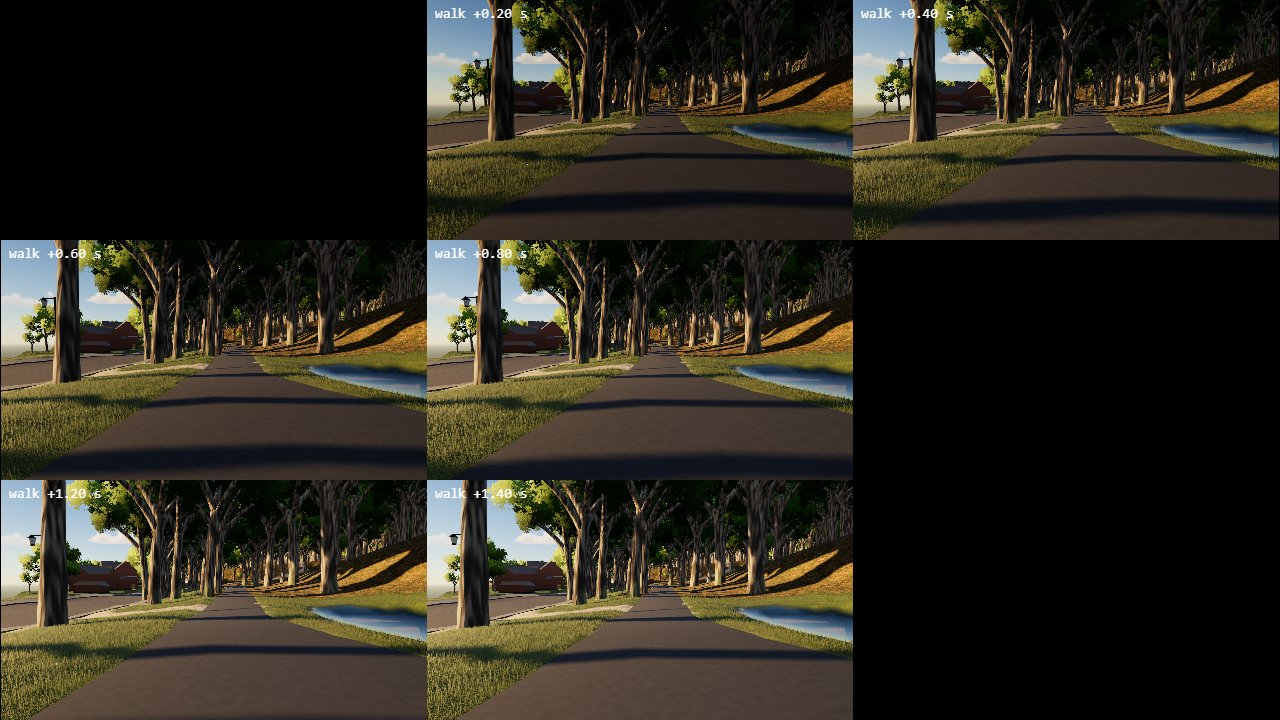
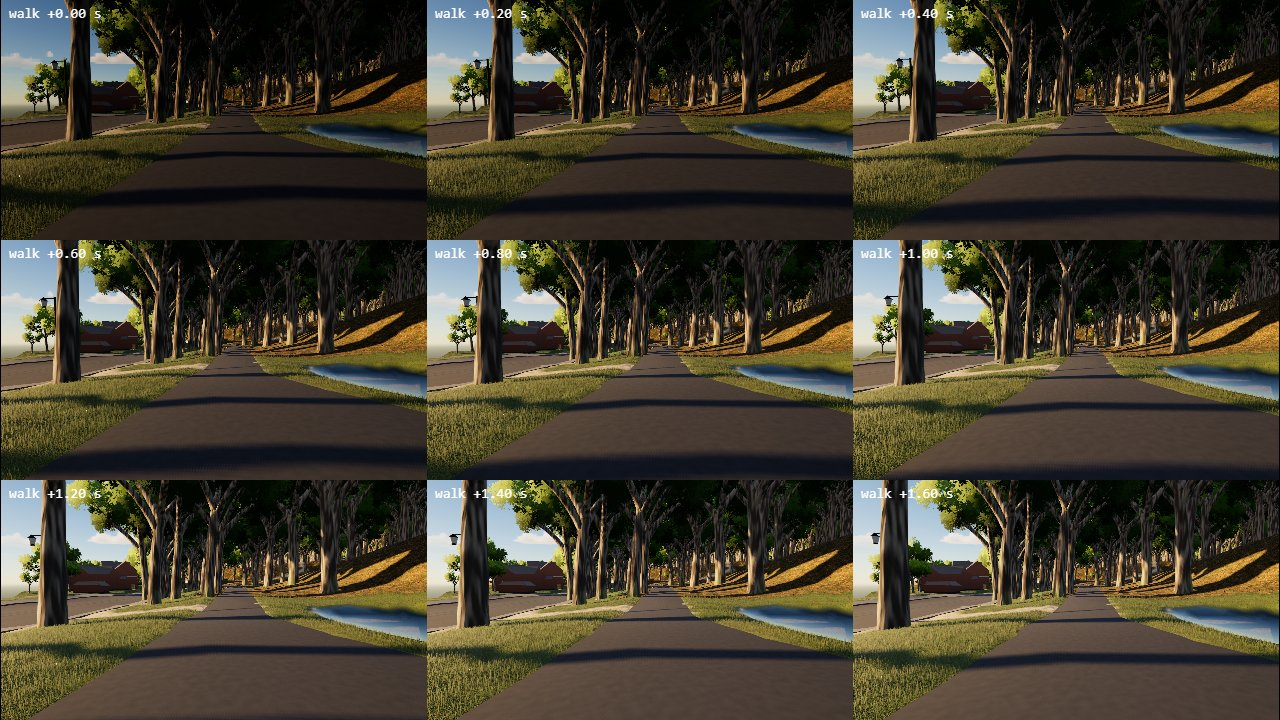
Grass: docs/GRASS.md, labs index card, strips

Changed region(s): [[0.6562, 0.3361, 1.0, 1.0], [0.0, 0.0, 0.3438, 0.3361], [0.1562, 0.0306, 0.1875, 0.0611]]

diff --git a/labs/index.html b/labs/index.html
@@ -26,6 +26,7 @@
   <p class="lead">One page per asset or system, to look at it on its own before it goes into the city. <a href="../viewer/index.html">Back to the city</a>.</p>
   <a class="card" href="bird-lab.html"><b>Bird Lab</b><span>The Saint-Job peregrine falcon: every clip, the flight blend, the procedural layers fly mode uses (dive, bank, feet, braking), lights and debug views.</span></a>
   <a class="card" href="falcon-lab.html"><b>Falcon Lab</b><span>The Saint-Job peregrine family at the real church: the eyrie behind the louvred arch (gravel tray, feathers, prey, droppings; tools/blender/falconNest.py), three downy eyases, the female and the tiercel with their behaviours (perches on the cross, gable and louvre ledges, thermals, stoops, the food pass, feeding), views from inside the belfry, the street and the sky, Wikimedia Commons reference photos side by side, CPU / GPU cost A/B. In the city by default (?falcons=0 = none); fly mode starts from the nest.</span></a>
+  <a class="card" href="grass-lab.html"><b>Grass Lab</b><span>Our own grass (viewer/grass/) on real Uccle tiles: front gardens (D8), the Wolvendael lawns (F4), a roadside verge from a car (Rue Zandbeek, C8). Types from OSM / UrbIS / LiDAR trees, clean edges from a top-down render of the drawn streets and buildings, compute culling + 3 indirect LODs, push field, seasons, day / golden / night; GPU A/B, frame strips, flicker test. In the city behind ?grass=1.</span></a>
   <a class="card" href="map-lab.html"><b>Map Lab</b><span>The minimap (round, heading-up, upright street names, current + next street from the road graph, tram 92, landmarks) and the full map (M: pan, wheel / pinch zoom, bilingual search, click to teleport) over a player walking, driving or flying along real Uccle streets, on a day / dusk / night sky; CPU per frame and worker cache rebuilds. Baked by tools/build_map.py; in the city behind ?map=1.</span></a>
   <a class="card" href="falcon-flight-lab.html"><b>Falcon Flight Lab</b><span>Fly as a peregrine over Saint-Job (lab only, next to today's fly mode): a semi-physical flight model (lift and drag, spread / half-folded / tucked wings, a forgiving stall, 80° banks, 7 g pull-outs, flapping from a stamina budget), stoops past 80 m/s, the wind with gusts, thermals over the Place and the parks (gulls circling, dust rising), updrafts off the façades, a real collision; pigeons (boids, vertex-shader wings) that burst off the roofs, the strike and catch window, carrying prey to the eyrie, landing with a flare on the church's cross and ledges; chase / head camera, FOV and streaks with speed, procedural wind and wing sound; keyboard, mouse aim, gamepad, touch; verification autopilots and traces.</span></a>
   <a class="card" href="lamp-lab.html"><b>Lamp Lab</b><span>The Brussels swan-neck lamp from Blender (tools/blender/brusselsLamp.py): its three LODs side by side with triangle counts, the LOD a lamp gets at any distance, day and night glow.</span></a>

diff --git a/docs/GRASS.md b/docs/GRASS.md
@@ -1,0 +1,205 @@
+# Our grass (`viewer/grass/`) and the Grass Lab
+
+Branch `claude/grass` (from claude/foundation 743c9f2), 2026-11-13. Lab: `labs/grass-lab.html` (`?scene=garden|park|verge`,
+`?time=golden|midday|night|...`, `?preset=low|medium|high|ultra`, `?day=1..365`, `?grass=0`, `?cam=x,y,z,tx,ty,tz`).
+In the city: **`?grass=1` (default OFF**, the owner decides), `?grasspreset=`.
+
+## 1. What it is
+
+Grass blades grow on the city's real lawns, parks, verges and meadows near the camera and sink into the textured
+ground (docs/materials/GROUND.md) with distance. Each frame a single compute pass picks the blades. They are drawn
+in 3 indirect draws. The CPU only writes a few uniforms (0.1-0.2 ms a frame, measured in the lab).
+
+| File | What |
+|---|---|
+| `viewer/grass/grassTypes.js` | per tile, a 1 m raster of grass TYPES from real data (density, length, dryness, flowers) |
+| `viewer/grass/grassField.js` | the FIELD: a top-down render around the camera of the city's own terrain, street meshes and buildings (height + type + "may grass grow here") |
+| `viewer/grass/grass.js` | the system: compute (culling, thinning, LOD, per-blade shape / wind / push / colour), 3 LOD meshes, material, presets, seasons |
+| `viewer/grass/grassPush.js` | the PUSH FIELD (car wheels, walker, falcon landing lay the grass down; it stands back up) |
+| `viewer/grass/cityGrass.js` | the city hook (`?grass=1`) |
+| `tools/grass/build_osm_grass.mjs` -> `data/grass/osm_grass.json` | OSM kinds the tile features fold away: 78 meadows, grassland, heath, 13 village greens, pitch surface + sport |
+| `labs/grass-lab.html/.js` | the lab: real tiles (D8, F4, C8) with the city's terrain, textured ground, measured streets, UrbIS buildings, trees, lamps, light, post chain |
+
+## 2. What came from where
+
+- **alezen9/revo-realms (MIT), read only, no code copied:** the engine room: a compute pass per frame with GPU frustum
+  culling, LOD by distance into indirect draws (Revo: 6/4/2 segments, ours: 5/3/1), stochastic thinning with
+  distance, clumps, camera-following zone. Revo puts all LODs in one list with `firstInstance` offsets, which needs
+  the WebGPU feature "indirect-first-instance". **Ours does not need it:** one data buffer with a region per LOD and
+  one draw-argument buffer with a byte offset per LOD (`geometry.setIndirect(args, offset)`). That is 3 storage
+  buffers in the compute stage; WebGPU's default limit is 8, and a first try with 16 was refused.
+- **game-engine-v1 Hybrid grass (`hybridGrassSystem.js`), read only, nothing copied into vendor/:**
+  - per-blade work done ONCE in compute (height, facing, clump, wind, push), not per vertex;
+  - Voronoi clumps over 3x3 cells: facing, lean, height and shade per clump;
+  - the view-thicken turn for edge-on blades;
+  - lighting normals that are mostly "up", so the field reads like the ground it fades into;
+  - the far colour converging to the ground's colour;
+  - root AO and hue / saturation / dry variation.
+
+  From the Revo port (`revoGrassSystem.js`): a painted density used as a probability, and the push-field idea.
+- **Our earlier Foliage Lab grass (`viewer/foliage/grass.js`, still used by the foliage lab):**
+  - the stateless world grid: the same cell always gives the same blade, deterministic, no swimming;
+  - grow / sink with distance;
+  - a pixel floor on blade width;
+  - the shared wind field (`viewer/foliage/wind.js`, imported).
+- **Ours (new):**
+  - **Thinning by level.** Candidates sit in 4.5 cm cells. A cell's level is how many times both of its indices
+    divide by 2 (capped at 3). A level-k blade jitters inside its 2^k block and gets a rank in [4^-(k+1), 4^-k).
+    It is kept while the density p(d) = min(1, (d0/d)^2) is above its rank.
+    - As p falls, the finest level goes first, so the blades that stay are always evenly spread (a jittered quadtree:
+      no clumps or holes from random thinning).
+    - The count per pixel stays about constant.
+    - Each level has its own dispatch, over the box of cells its distances can reach.
+    - Blades grow out of the ground (`smoothstep(0, .35, 1 - r/p)`) and widen 1/sqrt(p) (capped 2.6x).
+  - **Dispatch box from the view sector.** The CPU limits each level's dispatch to the axis-aligned box around the
+    camera's horizontal view sector (plus 3 m around the camera; the full square when looking down): about 4x
+    fewer threads.
+  - **A rank pre-test before any memory read**, against the most generous type (a meadow's d0).
+  - **The FIELD (the top-down render of the real drawn geometry):** see §4.
+  - The Uccle TYPES from data: see §3.
+  - **Blades lit through toward the sun.** The face normal turns toward the sun, not the camera, so a backlit lawn
+    glows instead of reading as black stubble (`garden_D8_golden_backlit_on.jpeg`).
+  - A dithered LOD hand-over (each blade's LOD distance x 0.85-1.15).
+  - The blade colour taken from the textured ground's own mean colours (lawn / rough / dry scans, ground.json) and
+    its noise taps. Up close the blades vary around that colour; far away they converge to it, so the last blades
+    sinking into the ground change the picture little.
+
+## 3. Types (data first)
+
+`grassTypes.js` paints, per tile (500 x 500 px at 1 m), density / length / dry / flowers:
+
+| Where (data) | Type | Blade height |
+|---|---|---|
+| default: private gardens, unmapped green | mown lawn (length 0.06) | 5-8 cm |
+| OSM `garden`; pitch with surface=grass, or no surface and soccer / football / rugby | mown (0.04 / 0) | 5-7 cm |
+| OSM `park`, `village_green` (Wolvendael) | park grass (0.28-0.3), clumpy | 10-16 cm |
+| OSM `landuse=grass` (public greens, roundabouts, embankments) | 0.42, a little dry | 16-22 cm |
+| terrain within 1.7 m of a measured carriageway / parking (UrbIS surfaces.json), not across a sidewalk | **roadside verge** (0.62), dry 0.55 | 25-35 cm |
+| traffic islands / medians (the road mesh's "grass" part) | mown verge (0.22) | ~10 cm |
+| OSM meadow (`landuse=meadow`, 78 in Uccle), `natural=grassland` / `heath`, orchard | **meadow with wildflowers** (0.75-1) | 35-55 cm |
+| OSM `scrub`, the soft edge of a wood (land-cover mask R) | long rough (0.8) | ~40 cm |
+| under LiDAR / OSM tree crowns (crown radius) | density x 0.45, fewer flowers | |
+| pitch: tennis clay, hockey turf, asphalt, sand ...; playground sand, paths, water, steep banks, inside woods | **no grass** | |
+
+On top of that, the bake reads the textured ground's own noise (ground.js `noiseTex`, same taps and formulas):
+- its "rough" patches make the grass longer;
+- its "dry" patches thin it out and dry it;
+- its worn spots leave bare soil.
+
+So the blades follow the scans under them.
+Flowers: 5 % of a meadow's blades carry a head (buttercup yellow, oxeye white, clover pink, knapweed purple).
+
+## 4. Clean edges, exact heights: the FIELD
+
+`grassField.js` renders, top-down and orthographic, a 128 m window around the camera into a 1024² RGBA32F target
+(12.5 cm texels, 16 MB). It uses proxy meshes that share the city's own geometry buffers:
+1. **Grass surfaces, depth tested:** each tile's terrain mesh and the street's grass islands. Output R = the drawn
+   surface's height, G = pack(density, flowers), B = pack(length, dry), A = 1.
+2. **Solids, with no depth test:** every other road part (carriageway, sidewalks, kerbs, squares, tree pits),
+   every building, and a disc per tree trunk. Output A = 0.
+
+So grass never grows on a road, sidewalk, square, path or water, nor inside a building or a trunk. It stops at the
+real outline of the kerb and the wall (`garden_D8_midday_on.jpeg`: lawn to the wall foot; the verge strip: lawn to
+the paving edge). Blades stand on the drawn triangles: the compute's own bilinear filter weights the height by A, so a
+blade by a kerb never takes the kerb's height (the JOINS rule: nothing floating, nothing through a surface).
+
+The window centre snaps to the texel grid, so a world point always lands on the same texel centre and a re-bake
+changes nothing under a blade. It re-bakes when the camera is more than 12 m from the centre or a tile comes or
+goes: one render of a few dozen draws, every ~9 s on foot and ~1.5 s at 30 km/h. That is 30-36 ms of CPU, almost
+all of it the first bake's shader build; the later ones are 1-3 ms (to re-measure). There were **0 synchronous
+pipelines** after warm-up while driving in the lab and during a 41 s street-level flight across 3 newly streamed
+tiles in the city (65 bakes).
+
+## 5. Light, night, seasons, wind, push
+
+- `MeshStandardNodeMaterial`, double sided:
+  - the city's sun and sky;
+  - **the sun's shadow map** (receives the shadows of trees and buildings; casts none);
+  - the city's fog;
+  - the **street-lamp light map** at night (`addLampLight`).
+
+  It adds no light objects, so the light count stays fixed.
+- Seasons, from `viewer/seasons/season.js` (`grass.syncSeason()`): drought in late July to August (more straw blades),
+  an olive tint in winter, growth, and hoar frost on the tips when the month's mean is < 5 °C
+  (`season_winter_20jan_frost.jpeg`, `season_summer_3aug_dry.jpeg`).
+- Wind: the shared field (`viewer/foliage/wind.js`). The lean is computed per blade in compute; a 2-sine flutter is
+  added per vertex. Long grass moves; lawns barely do.
+- **Push field API:** `grass.push.set(i, { x, y, z, radius, strength, vx, vz, ground })` for up to 8 pushers a
+  frame, and `grass.push.clear(i)`.
+  - Storage: a 64 m toroidal buffer of 25 cm cells.
+  - Blades lean away from a pusher (turned toward its motion) and flatten to 30 %, then recover with a 3.5 s time
+    constant. A pusher more than 0.4 m above the ground does nothing.
+  - The stamp pass is skipped entirely when nothing has pushed for 14 s.
+  - The lab's drive puts the car's 4 wheels in. The city hook does not wire the car / walker / falcon yet (next step).
+
+## 6. Budget and measurements
+
+The rule: ≤ ~1 ms GPU at street level on the RTX 4050 Laptop, on a quiet machine. GPU ms are the renderer's
+timestamps (render + compute), A/B in alternating rounds, 1280x720 at DPR 1.5 in the lab.
+
+**Preflight** (`tools/perf/preflight.ps1`):
+- **YELLOW** for the lab block below, with the lab frozen and the coordinator's tab parked (GPU load at rest 0 %,
+  64 °C, no limit active; free memory 2.1 GB: memory FAIL line, Chrome 5.8 GB).
+- RED at other times: the coordinator's city tab was rendering (GPU busy 21-57 % at rest). Those numbers are
+  marked "(noisy)" below.
+
+| Scene (lab, preset high) | Blades drawn (LOD0 / 1 / 2) | GPU grass on - off | Preflight |
+|---|---|---|---|
+| Wolvendael lawn F4, golden, standing | 6.2k / 17.7k / 8.8k (6 cm cells) | **+0.26 ms** (pairs 0.13-0.79) | YELLOW |
+| Front gardens D8, golden, standing | 9.3k / 15.3k / 2.0k (6 cm cells) | **+0.13 ms** (pairs -0.26-0.26) | YELLOW |
+| Rue Zandbeek verge C8, parked car | 2.6k / 10.4k / 2.2k | **+0.07 ms** | YELLOW |
+| Rue Zandbeek, driving 30 km/h | 2.0k / 5.9k / 1.6k | **+0.20 ms** | YELLOW |
+| First try (before the dispatch box), F4, coordinator rendering | 9.2k / 18.4k / 7.6k | +1.57 ms (noisy) | RED |
+| City `?grass=1`, D8 lawn (9 tiles + far ring), coordinator rendering | 17.4k / 31.7k / 5.4k (4.5 cm cells) | +0.41 ms (-0.85..+1.57, noisy) | RED |
+
+The denser final grid (4.5 cm cells, about 1.8x the candidates) was re-measured only in the city run above, which
+was noisy: **to re-run on a quiet machine.** Compute timestamps alone are quantized by Chrome (65.5 µs steps), so
+only the on / off total is used.
+
+Presets (`?preset=`, `grass.setPreset()`: uniforms only, no shader rebuild; the buffer caps are fixed at
+construction): `low` (density 0.55, reach 0.6, 28 m), `medium` (0.8, 0.8, 38 m), `high` (1, 1, 48 m, default),
+`ultra` (1, reach 1.1, full-density radius x 1.3). Without the WebGPU backend (WebGL2 fallback): no grass, the
+textured ground alone (`Grass.supported()`). The WebGPU feature "indirect-first-instance" is not needed.
+
+Shimmer: the flicker test (sub-pixel strafe, 24 frames, `flicker_garden_strafe_heat.jpeg`) shows **1,013-1,114 ppm**
+blinking with grass, against 286 without. The blinks are single pixels at blade tips, the far lawn's edge against
+a wall's foot and a shadow edge; there are no bands. At 2 cm/frame (walking speed) any thin-blade field changes
+most pixels (227k ppm, against the textured ground's own 93k), so that number says nothing about popping.
+Moving strips (`strip_park_walk.jpeg` at 5 km/h, `strip_verge_drive.jpeg` at 30 km/h; 0.2-0.25 s apart) show no
+pops, bands or changes in density between frames.
+
+Memory:
+- field: 16 MB + 4 MB depth;
+- blade buffers: 22 MB (350k blades x 64 B, preset high);
+- push field: 1 MB;
+- type rasters: 1 MB per tile.
+
+Download: 13 KB (osm_grass.json); the city fetches each tile's surfaces.json once more for the verges (~0.4 MB).
+
+## 7. Images (`docs/grass/`)
+
+| File | What |
+|---|---|
+| `garden_D8_midday_on.jpeg` / `_off.jpeg` | front-garden lawn, D8, midday, grass on / off (the textured ground alone) |
+| `garden_D8_golden_backlit_on.jpeg` | the same lawn into the golden-hour sun: lit-through blades, the tree's shadow |
+| `garden_D8_night_on.jpeg` | night (lamp pools on the street; the lawn dark) |
+| `park_F4_golden_on.jpeg` / `_off.jpeg` | Wolvendael lawns, golden hour |
+| `park_F4_lod_tint.jpeg` | the three LODs tinted (red 5 segments < ~7 m, green 3 < ~18 m, blue 1 beyond) |
+| `season_winter_20jan_frost.jpeg`, `season_summer_3aug_dry.jpeg` | the season hook |
+| `strip_park_walk.jpeg`, `strip_verge_drive.jpeg` | moving frame strips |
+| `flicker_garden_strafe_heat.jpeg` | shimmer heat map |
+| `city_D8_grass1.jpeg` | the city with `?grass=1` (D8, Rue des Griottes) |
+
+## 8. What's left
+
+- A quiet-machine re-measure of the final grid: lab scenes x presets, and the city A/B at street level and from a car.
+- City: wire the pushers (`driver` wheels, `walker` feet, the falcon landing).
+- Move `grassTypeData` (38 ms per tile on the main thread) and the surfaces.json fetch into the tile worker.
+- Landmark models (Saint-Job, the Observatory, ...) are not yet solids in the field (the UrbIS solid they replace is
+  hidden): grass can grow under their floors (unseen) and at their outer foot.
+- A real translucency term needs the shadow factor (an emissive glow would also glow in shade); the sun-facing
+  normal gives most of it.
+- Flowers are blade-tip heads; proper flower meshes (the foliage lab's) would read better in meadows close up.
+- Verges are found by distance to the carriageway: a garden directly behind a carriageway with no mapped sidewalk
+  reads as a verge.
+- The night: the lamp light map lights blades like the ground, but blades are not darker in the pools' shadows.
